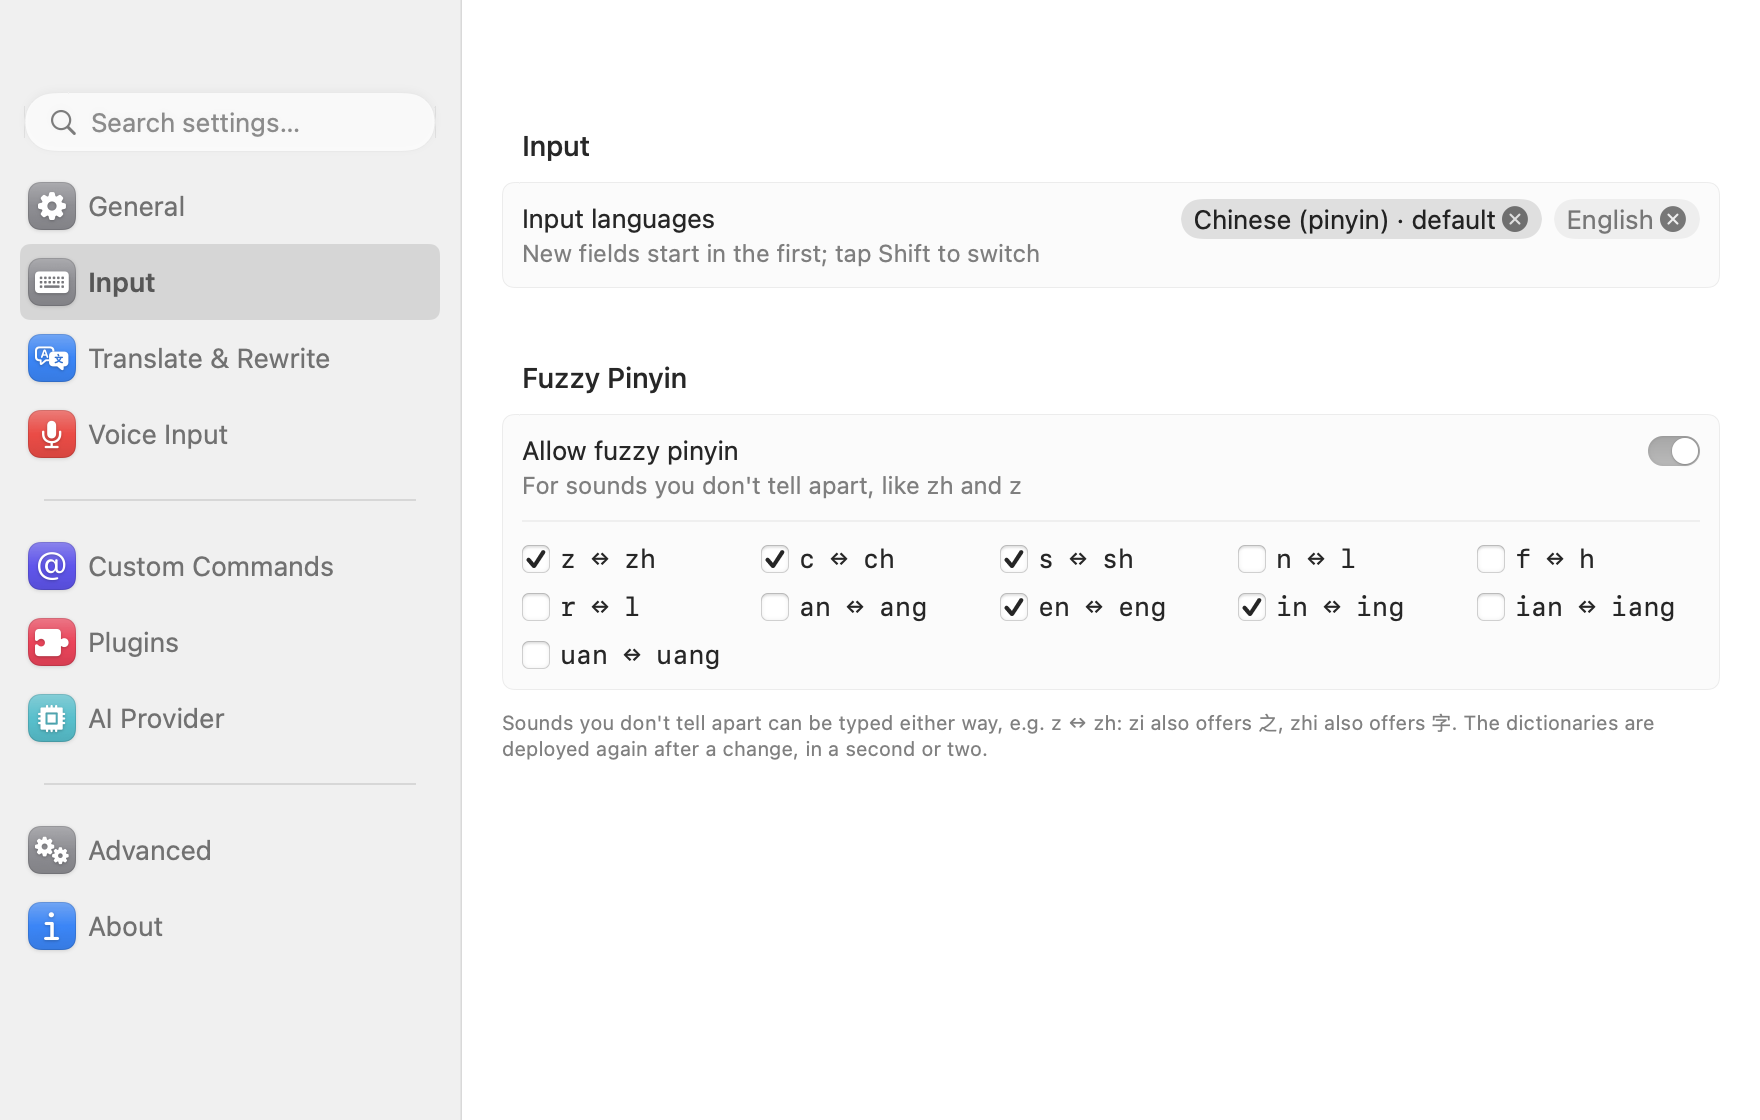
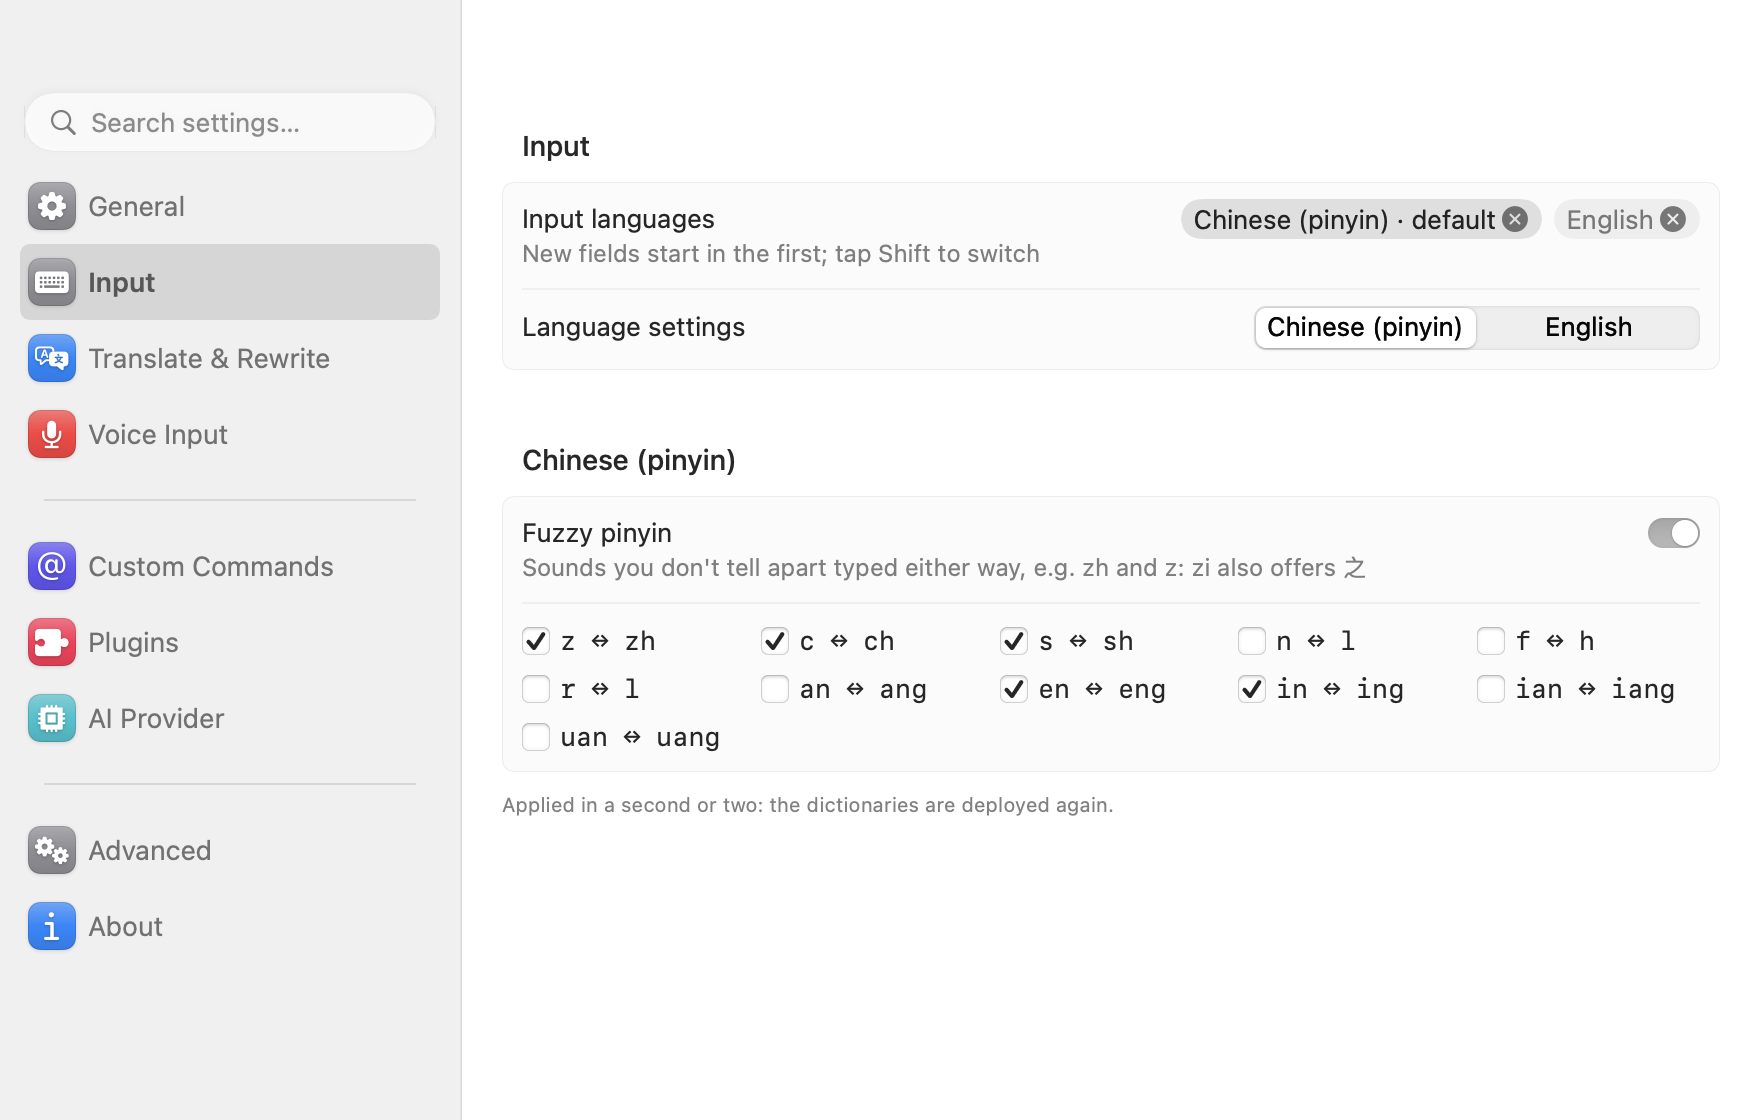
Input page: each input language's settings on a tab of their own
The languages added are tabs under them; the card below holds the picked
one's settings: fuzzy pinyin for Chinese (pinyin), nothing yet for English.

diff --git a/Sources/AllInOneIME/SettingsWindow.swift b/Sources/AllInOneIME/SettingsWindow.swift
@@ -622,6 +622,8 @@ struct SettingsView: View {
     /// The page shown (the window remembers the last one) and what's typed in the sidebar's search field.
     @State private var page: SettingsPage
     @State private var query = ""
+    /// The input language whose settings the Input page shows.
+    @State private var inputTab: Language = .chinese
     private let remembersPage: Bool
     static let pageKey = "settingsPage"
 
@@ -720,6 +722,15 @@ struct SettingsView: View {
                        model.config.inputLanguages.count > 1
                        ? tr("第一个是默认，单按 Shift 切换", "New fields start in the first; tap Shift to switch")
                        : tr("只有一种时 Shift 不切换", "With one, Shift doesn't switch"))
+            }
+            // Each language has settings of its own: pick one, they show in the card below.
+            LabeledContent(tr("各语言设置", "Language settings")) {
+                Picker("", selection: Binding(get: { shownInput }, set: { inputTab = $0 })) {
+                    ForEach(model.config.inputLanguages, id: \.self) { language in
+                        Text(AllInOneIMEInputController.inputName(language)).tag(language)
+                    }
+                }
+                .pickerStyle(.segmented).labelsHidden().fixedSize()
             }
         } header: {
             SectionTitle(tr("输入", "Input"), icon: CommandIcons.input)
@@ -1115,12 +1126,20 @@ struct SettingsView: View {
     }
 
     /// 模糊音: shown with Chinese (pinyin) input.
-    @ViewBuilder private var fuzzySection: some View {
-        if model.config.inputLanguages.contains(.chinese) {
-            Section {
+    /// The input language whose settings show below the languages (the first, until another is picked).
+    private var shownInput: Language {
+        model.config.inputLanguages.contains(inputTab) ? inputTab : model.config.inputLanguages.first ?? .chinese
+    }
+
+    /// The settings of the input language picked above: pinyin's fuzzy sounds; none for English yet.
+    @ViewBuilder private var inputLanguageSection: some View {
+        Section {
+            switch shownInput {
+            case .chinese:
                 Toggle(isOn: Binding(get: { !model.config.fuzzyPinyin.isEmpty },
                                      set: { model.setFuzzyPinyin($0 ? SettingsModel.fuzzyDefaults : []) })) {
-                    titled(tr("允许模糊音", "Allow fuzzy pinyin"), tr("比如 zh 和 z、n 和 l 不分", "For sounds you don't tell apart, like zh and z"))
+                    titled(tr("模糊音", "Fuzzy pinyin"),
+                           tr("分不清的音两种拼法都能打出来，比如 zh 和 z：打 zi 也有「之」", "Sounds you don't tell apart typed either way, e.g. zh and z: zi also offers 之"))
                 }
                 if !model.config.fuzzyPinyin.isEmpty {
                     LazyVGrid(columns: [GridItem(.adaptive(minimum: 110), alignment: .leading)], alignment: .leading, spacing: 8) {
@@ -1138,16 +1157,20 @@ struct SettingsView: View {
                           systemImage: "exclamationmark.triangle")
                         .font(.caption).foregroundStyle(.orange)
                 }
-            } header: {
-                SectionTitle(tr("模糊音", "Fuzzy Pinyin"), icon: CommandIcons.input)
-            } footer: {
-                Text(tr("分不清的音两种拼法都能打出来，比如 z ↔ zh：打 zi 也有「之」，打 zhi 也有「字」。改完词库会重新部署，一两秒。",
-                        "Sounds you don't tell apart can be typed either way, e.g. z ↔ zh: zi also offers 之, zhi also offers 字. The dictionaries are deployed again after a change, in a second or two."))
+            case .english:
+                Text(tr("英文模式直接打字母，暂时没有要设置的。", "In English, letters are typed as they are: nothing to set yet."))
+                    .foregroundStyle(.secondary)
+            }
+        } header: {
+            SectionTitle(AllInOneIMEInputController.inputName(shownInput), icon: CommandIcons.input)
+        } footer: {
+            if shownInput == .chinese {
+                Text(tr("改完词库会重新部署，一两秒生效。", "Applied in a second or two: the dictionaries are deployed again."))
                     .font(.caption).foregroundStyle(.secondary)
                     .multilineTextAlignment(.leading).frame(maxWidth: .infinity, alignment: .leading)  // under the card, from its left
             }
-            .disabled(!model.canSave)
         }
+        .disabled(!model.canSave)
     }
 
     /// The version, who makes it, where to read more.
@@ -1190,7 +1213,7 @@ struct SettingsView: View {
                     interfaceSection
                 case .input:
                     inputSection
-                    fuzzySection
+                    inputLanguageSection
                 case .writing:
                     translateSection
                     rewriteSection

diff --git a/README.md b/README.md
@@ -192,7 +192,7 @@ What it reads, and when:
 In the settings:
 
 - **Input languages**: English, Chinese (pinyin), or both. A new install starts with Chinese only: to write English, add English and remove Chinese (or drag English first). New text fields start in the first; with two, tap Shift to switch; with one, Shift doesn't switch.
-- **Fuzzy pinyin** (with Chinese input): sounds you don't tell apart typed either way, e.g. z ↔ zh, n ↔ l, in ↔ ing. Turn on "Allow fuzzy pinyin" under Input and pick the pairs; the dictionaries are deployed again in a second or two. It writes `rime_ice.custom.yaml` in the Rime user folder, and never over a file of your own there.
+- **Fuzzy pinyin** (with Chinese input): sounds you don't tell apart typed either way, e.g. z ↔ zh, n ↔ l, in ↔ ing. On the Input page, pick Chinese (pinyin) under "Language settings", turn on "Fuzzy pinyin" and pick the pairs; the dictionaries are deployed again in a second or two. It writes `rime_ice.custom.yaml` in the Rime user folder, and never over a file of your own there.
 - **Translate (@translate)**: add the languages to translate into (Spanish, French, German, Japanese, Korean, Chinese…) and drag them into order. `@translate` writes a line in each, in this order (three versions with only one); the sentence's own language is skipped. A new install has English only.
 - `@improve` polishes and rewrites without translating; `@translate @improve` together translates and rewrites in one request. Turn on "@improve also translates" in the settings to make `@improve` always do that.
 

diff --git a/README.zh-CN.md b/README.zh-CN.md
@@ -180,7 +180,7 @@ Claude Code（`claude` 命令）和它自己的账号，改文件、跑命令前
 在设置里：
 
 - **输入语言**：中文（拼音）、英文，或者两个都要。拖动排序，第一个是新输入框的默认；有两个时单按 Shift 切换，只有一个时 Shift 不切换。新用户只有中文。
-- **模糊音**（中文输入时）：分不清的音两种拼法都能打出来，比如 z ↔ zh、n ↔ l、in ↔ ing。在「输入」里打开「允许模糊音」，再勾要的几组；改完词库重新部署，一两秒。它写的是 Rime 用户目录里的 `rime_ice.custom.yaml`，那里如果有你自己的这个文件，不会覆盖。
+- **模糊音**（中文输入时）：分不清的音两种拼法都能打出来，比如 z ↔ zh、n ↔ l、in ↔ ing。在「输入」页的「各语言设置」里选「中文（拼音）」，打开「模糊音」，再勾要的几组；改完词库重新部署，一两秒。它写的是 Rime 用户目录里的 `rime_ice.custom.yaml`，那里如果有你自己的这个文件，不会覆盖。
 - **翻译（@translate）**：加你要翻译成的语言（英文、日语、韩语、法语、繁体中文…），拖动排序。`@translate` 按这个顺序每种语言出一行，只加了一种就出 3 个版本；和原文同一种语言的跳过。新用户只有英文。
 - `@improve` 只润色、给改写风格，不翻译；`@translate @improve` 写在一起，一次请求同时翻译和改写。设置里打开「@improve 同时翻译」，`@improve` 就一直这样。
 

diff --git a/CHANGELOG.md b/CHANGELOG.md
@@ -6,7 +6,7 @@ English | [中文](CHANGELOG.zh-CN.md)
 
 ### Added
 
-- Fuzzy pinyin: with Chinese input, turn on "Allow fuzzy pinyin" under Input and pick the pairs you don't tell apart (z ↔ zh, c ↔ ch, s ↔ sh, n ↔ l, f ↔ h, r ↔ l, an ↔ ang, en ↔ eng, in ↔ ing, ian ↔ iang, uan ↔ uang): either spelling then finds the word. Applied in a second or two; a `rime_ice.custom.yaml` of your own in the Rime user folder is never written over.
+- Fuzzy pinyin: on the Input page, pick Chinese (pinyin) under "Language settings", turn on "Fuzzy pinyin" and pick the pairs you don't tell apart (z ↔ zh, c ↔ ch, s ↔ sh, n ↔ l, f ↔ h, r ↔ l, an ↔ ang, en ↔ eng, in ↔ ing, ian ↔ iang, uan ↔ uang): either spelling then finds the word. Applied in a second or two; a `rime_ice.custom.yaml` of your own in the Rime user folder is never written over.
 
 ### Changed
 

diff --git a/CHANGELOG.zh-CN.md b/CHANGELOG.zh-CN.md
@@ -6,7 +6,7 @@
 
 ### 新增
 
-- 模糊音：中文输入时，在设置的「输入」里打开「允许模糊音」，勾上你分不清的几组（z ↔ zh、c ↔ ch、s ↔ sh、n ↔ l、f ↔ h、r ↔ l、an ↔ ang、en ↔ eng、in ↔ ing、ian ↔ iang、uan ↔ uang），两种拼法都能打出来。一两秒生效；Rime 用户目录里你自己的 `rime_ice.custom.yaml` 不会被覆盖。
+- 模糊音：在设置的「输入」页，「各语言设置」里选「中文（拼音）」，打开「模糊音」，勾上你分不清的几组（z ↔ zh、c ↔ ch、s ↔ sh、n ↔ l、f ↔ h、r ↔ l、an ↔ ang、en ↔ eng、in ↔ ing、ian ↔ iang、uan ↔ uang），两种拼法都能打出来。一两秒生效；Rime 用户目录里你自己的 `rime_ice.custom.yaml` 不会被覆盖。
 
 ### 改动
 
